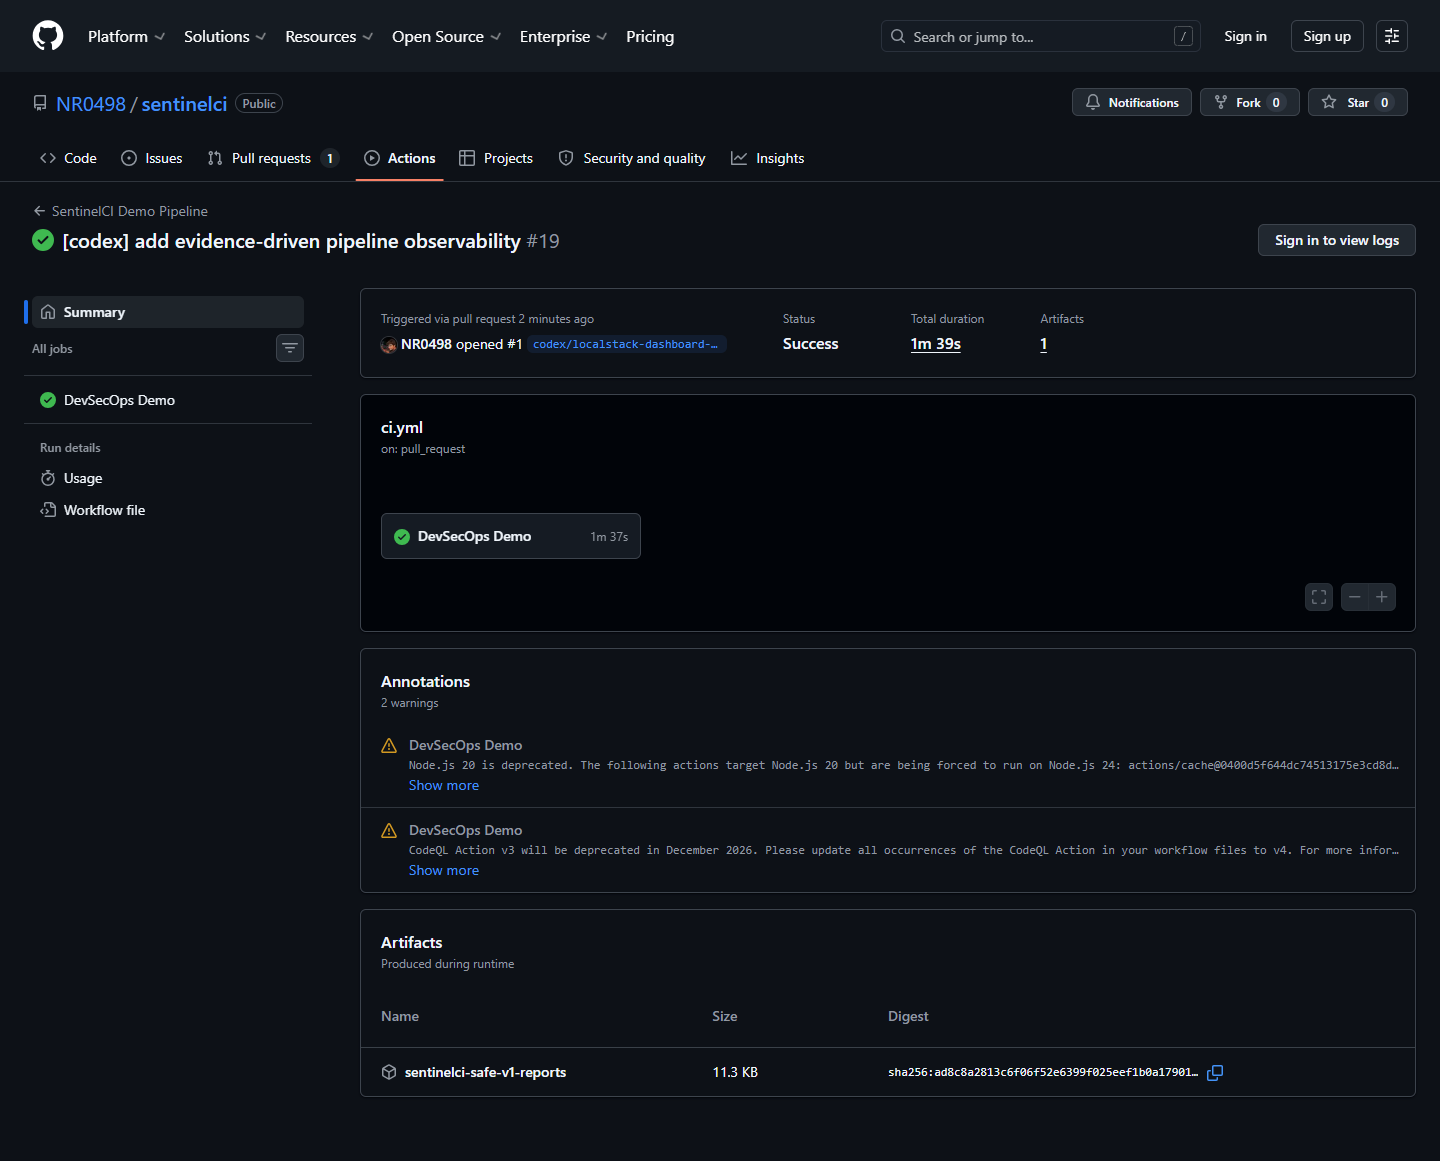
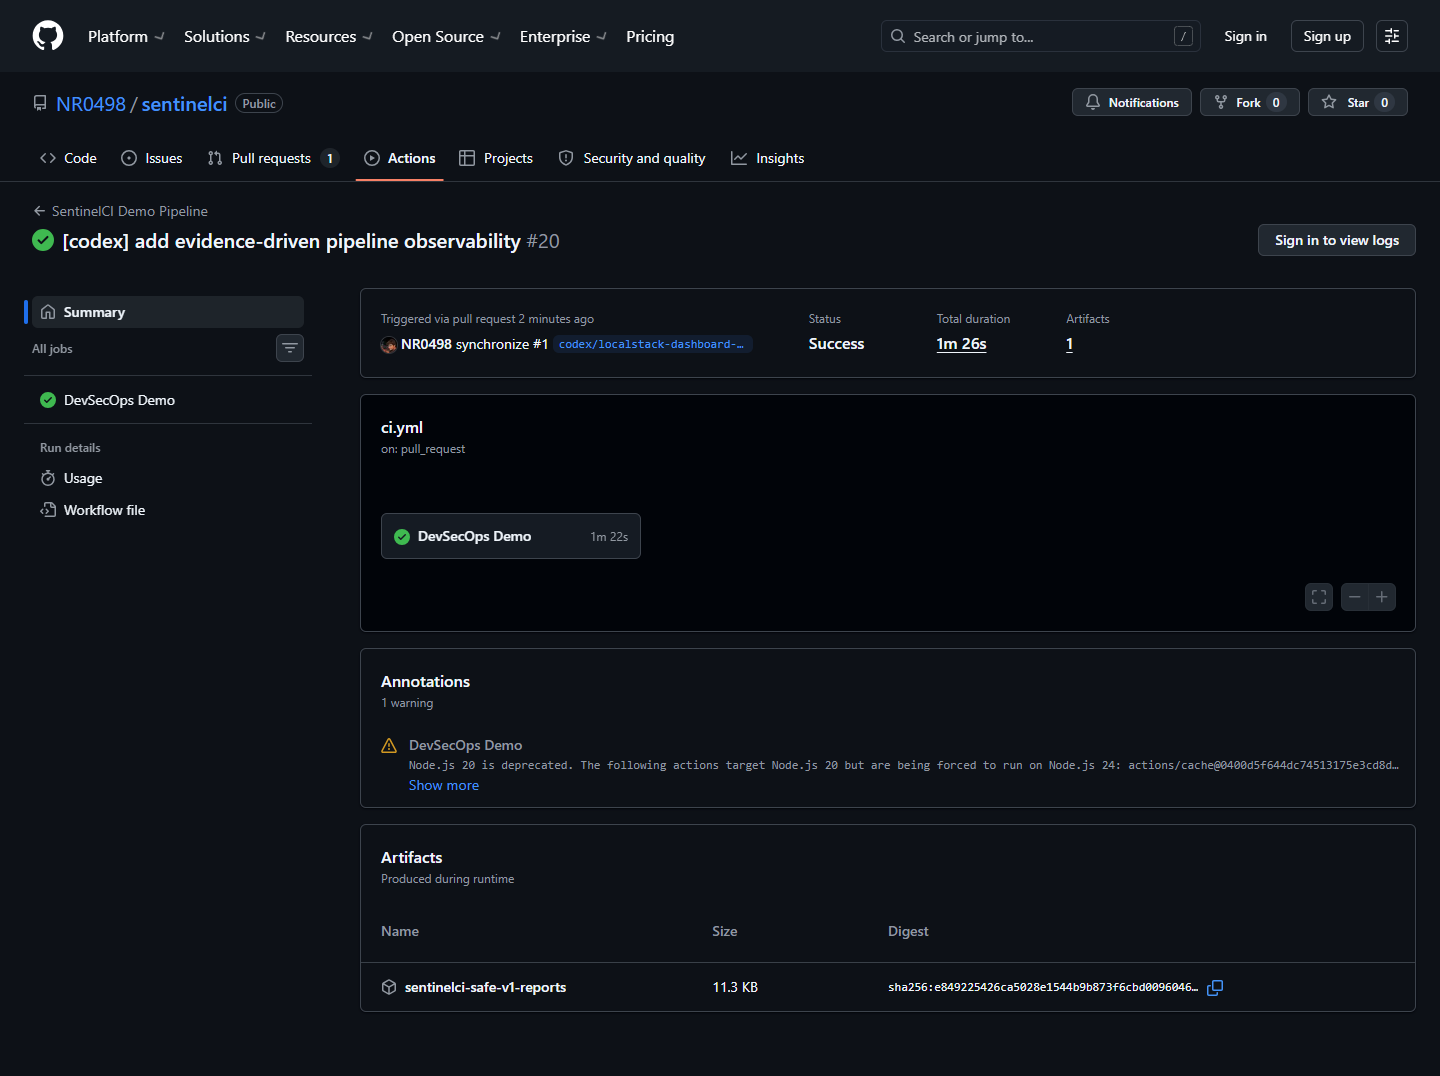
remove deprecated cache runtime warning

diff --git a/proof/README.md b/proof/README.md
@@ -34,6 +34,8 @@ The end-to-end run produced:
 
 ![GitHub Actions trusted evidence run](screenshots/sentinelci-github-actions-evidence.png)
 
+![Draft pull request and review surface](screenshots/sentinelci-pull-request.png)
+
 ![SentinelCI dashboard](screenshots/sentinelci-dashboard.png)
 
 ![Dynamic PASS report](screenshots/sentinelci-dynamic-pass.png)
